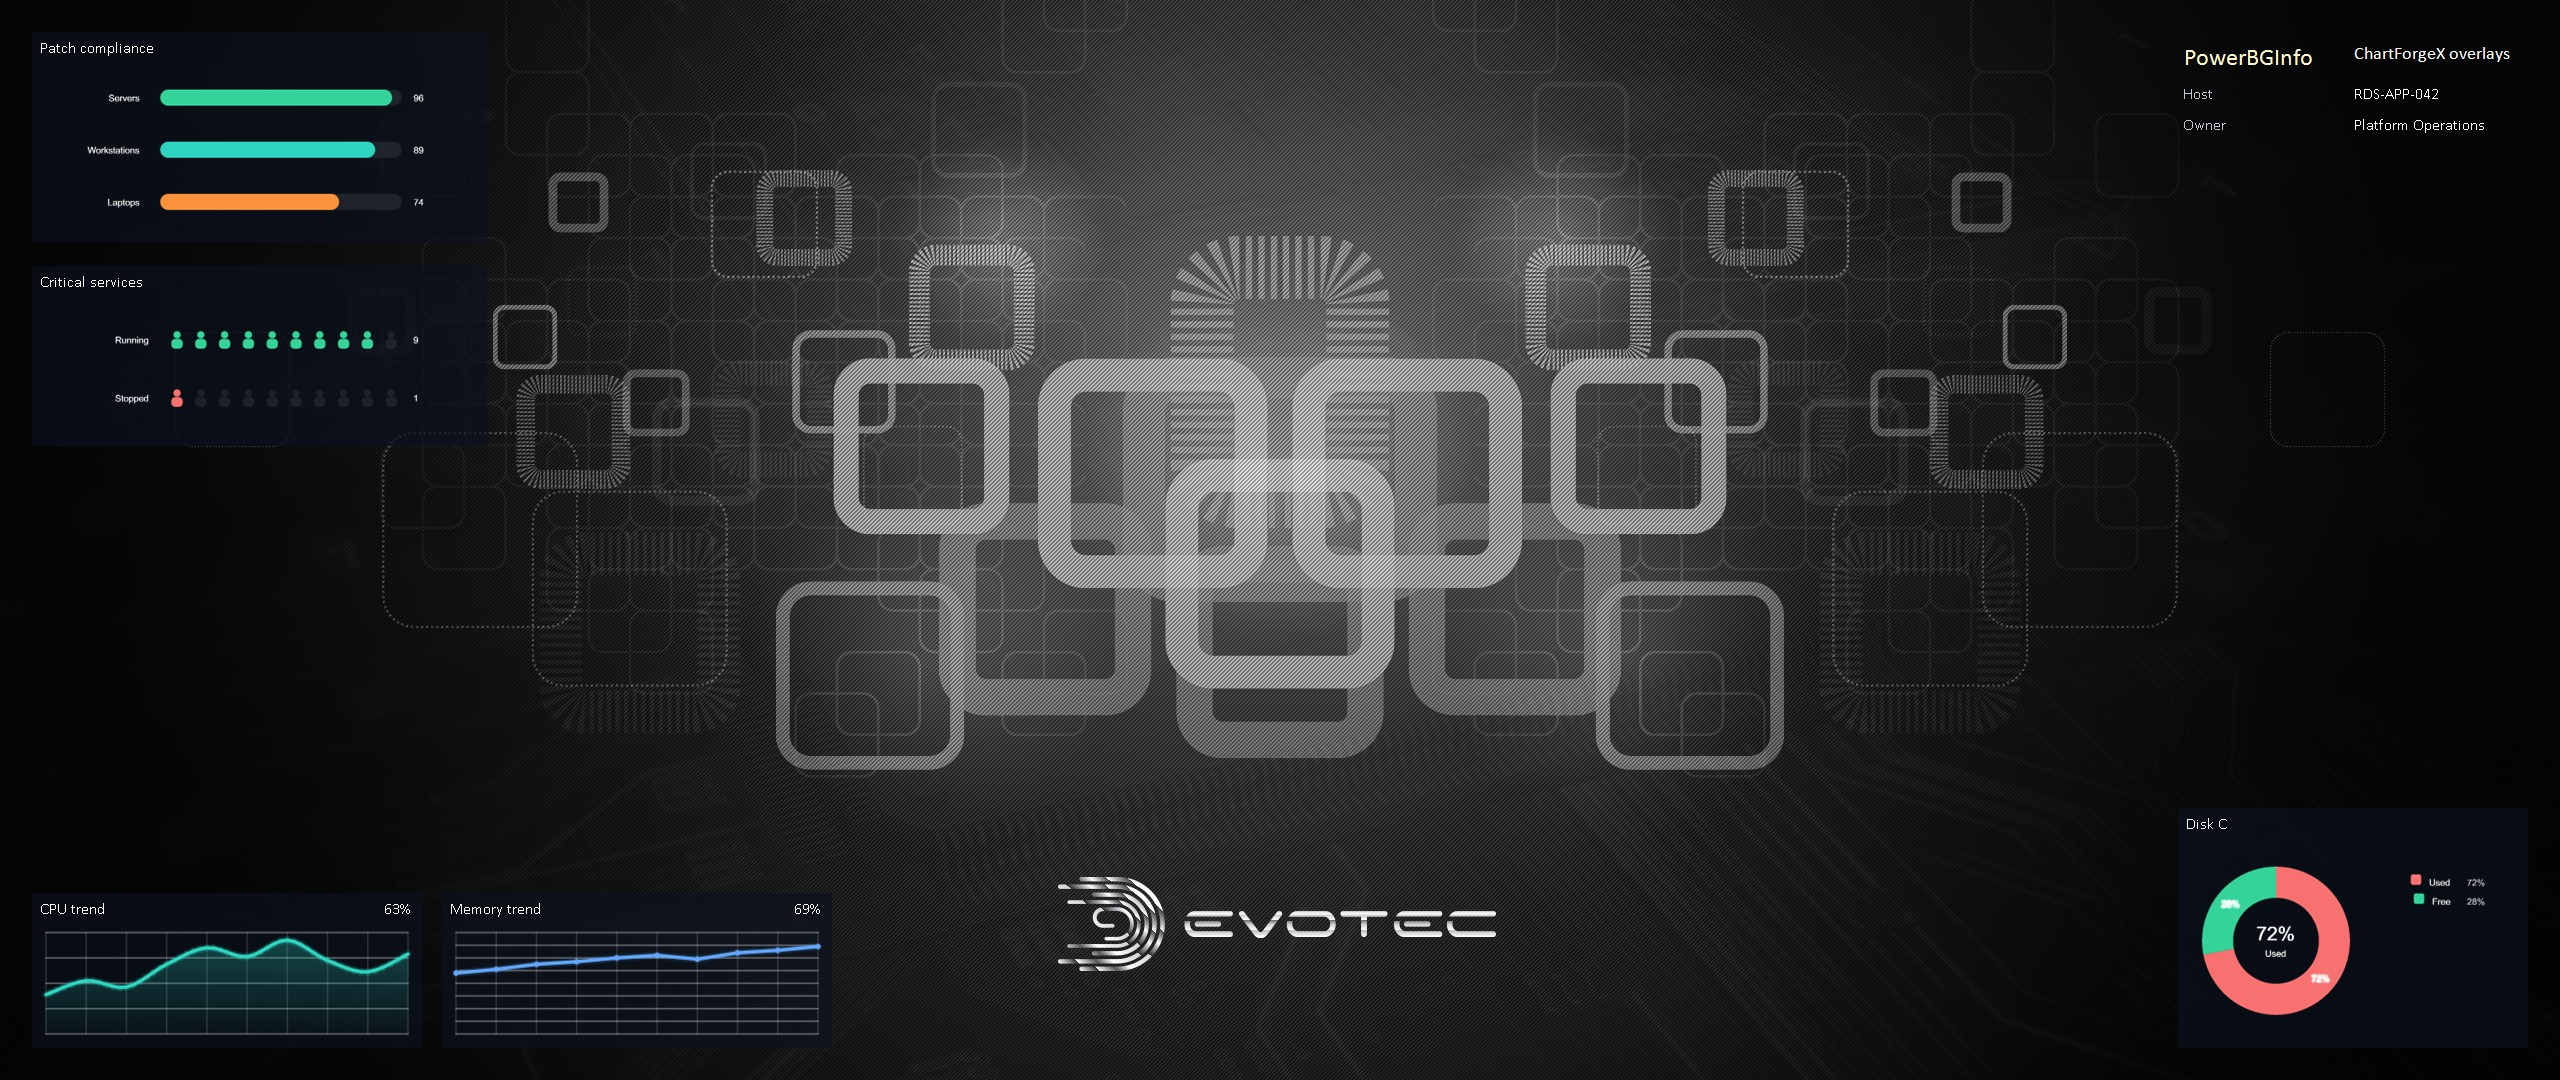
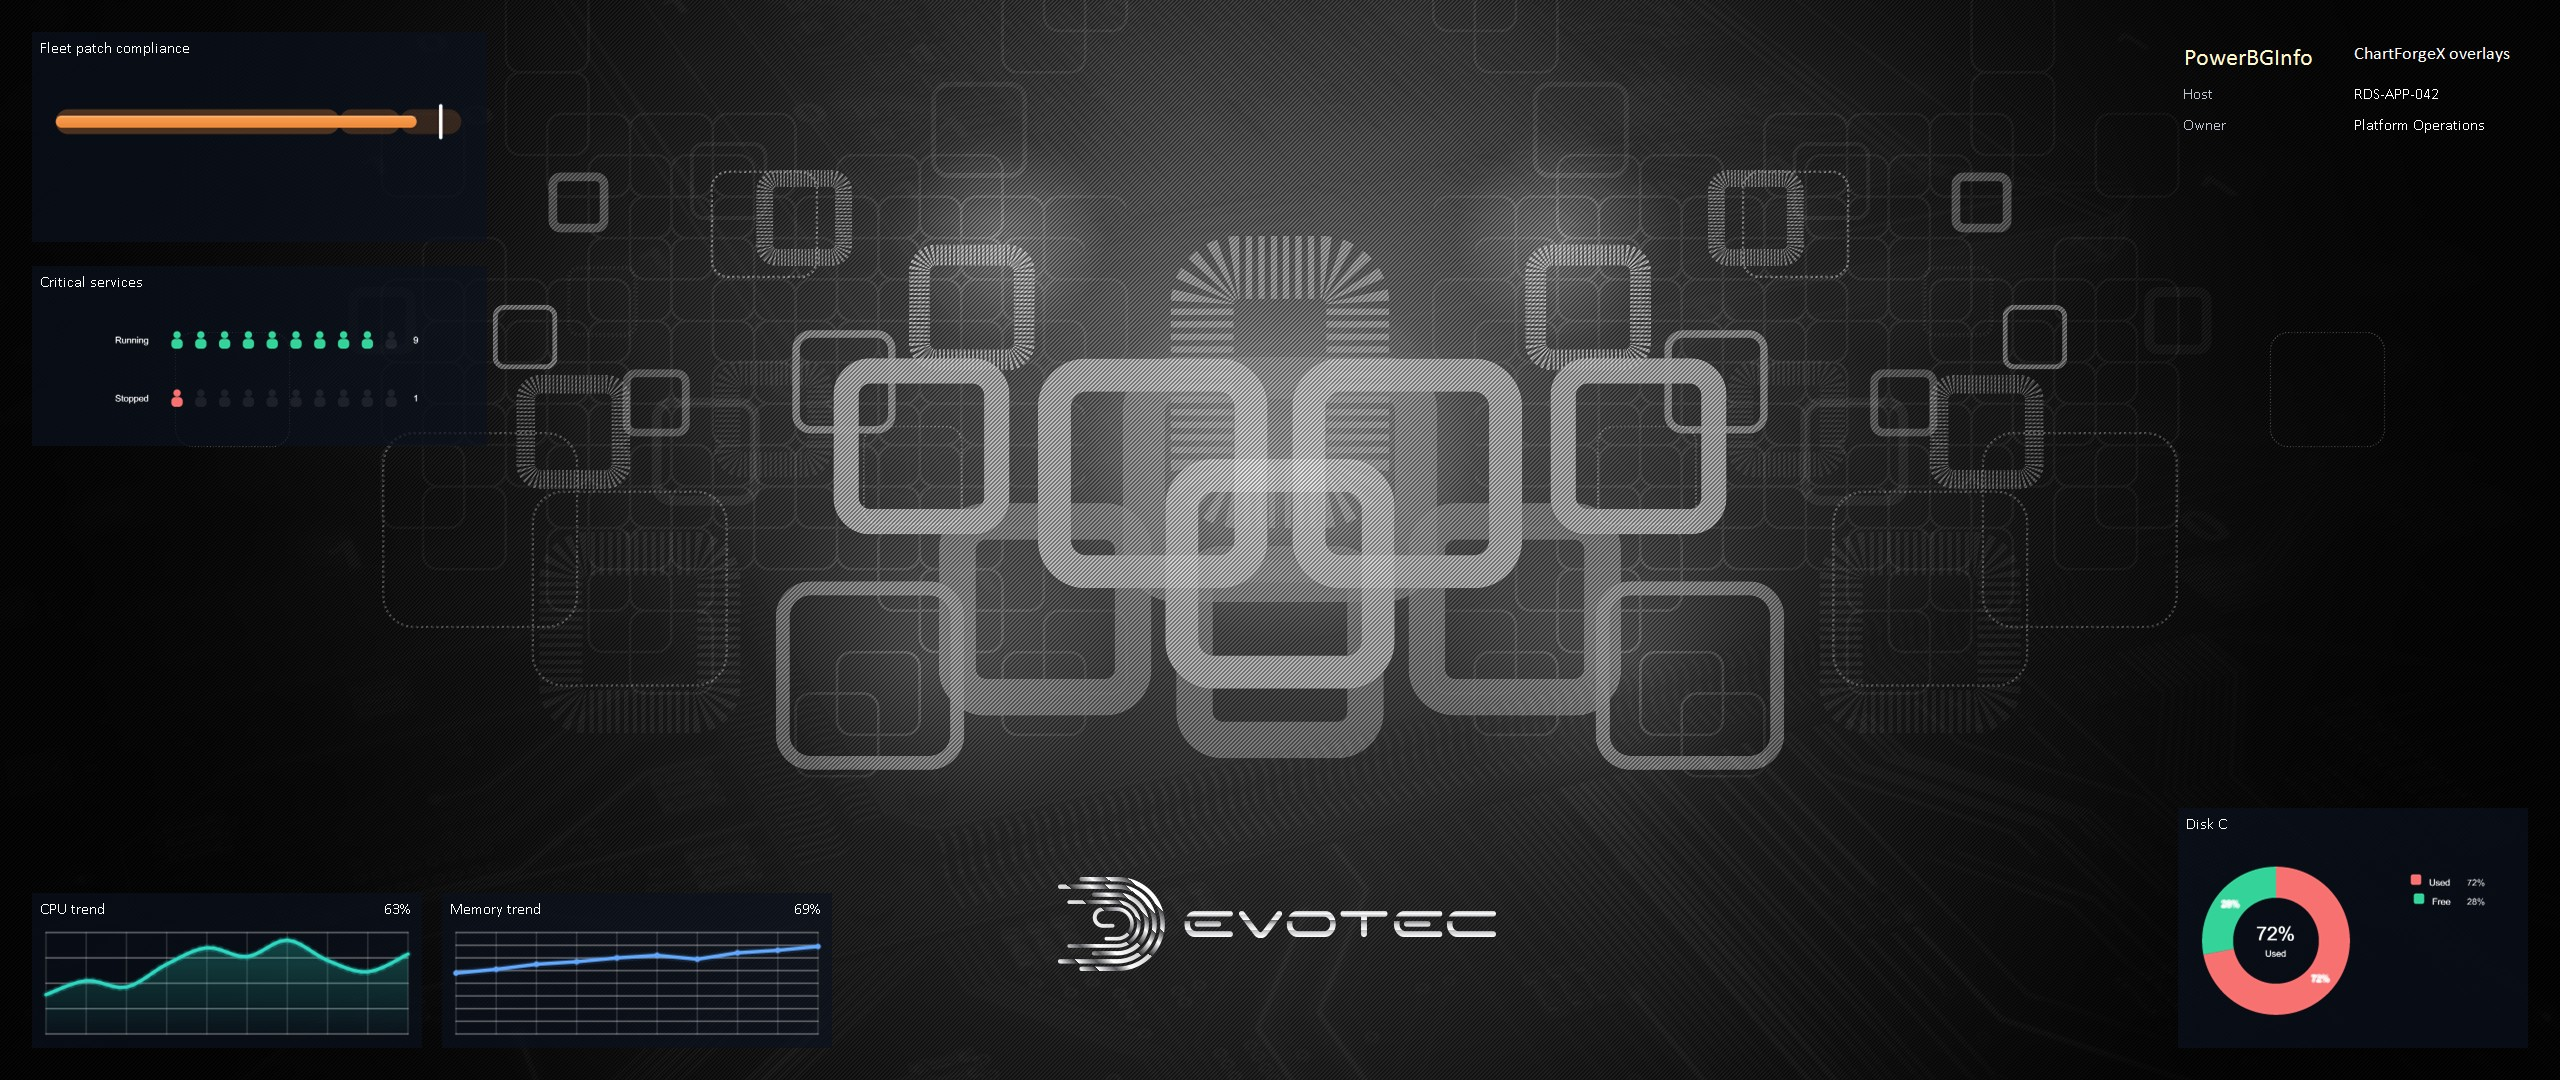
feat(charts): ✨ Add bullet chart overlays

Changed region(s): [[0.0, 0.0611, 0.1875, 0.2139]]

diff --git a/Sources/PowerBGInfo.PowerShell/CmdletNewBGInfoChart.cs b/Sources/PowerBGInfo.PowerShell/CmdletNewBGInfoChart.cs
@@ -16,7 +16,7 @@ public class CmdletNewBGInfoChart : PSCmdlet {
     [Parameter]
     public string Id { get; set; } = string.Empty;
 
-    /// <para>Chart kind to render, such as Sparkline, Line, Area, Bar, HorizontalBar, Gauge, Circle, RadialBar, Pie, Donut, ProgressBar, or Pictorial.</para>
+    /// <para>Chart kind to render, such as Sparkline, Line, Area, Bar, HorizontalBar, Gauge, Circle, RadialBar, Bullet, Pie, Donut, ProgressBar, or Pictorial.</para>
     [Parameter]
     public BgInfoChartKind Kind { get; set; } = BgInfoChartKind.Sparkline;
 
@@ -31,6 +31,14 @@ public class CmdletNewBGInfoChart : PSCmdlet {
     /// <para>Optional labels used by point-based charts.</para>
     [Parameter]
     public string[] Labels { get; set; } = Array.Empty<string>();
+
+    /// <para>Target value used by bullet charts.</para>
+    [Parameter]
+    public double Target { get; set; }
+
+    /// <para>Qualitative range ends used by bullet charts.</para>
+    [Parameter]
+    public double[] RangeEnds { get; set; } = Array.Empty<double>();
 
     /// <para>Built-in metric source used when no explicit values are provided.</para>
     [Parameter]
@@ -290,6 +298,12 @@ public class CmdletNewBGInfoChart : PSCmdlet {
         }
         if (MyInvocation.BoundParameters.ContainsKey(nameof(Maximum))) {
             chart.Maximum = Maximum;
+        }
+        if (MyInvocation.BoundParameters.ContainsKey(nameof(Target))) {
+            chart.Target = Target;
+        }
+        if (RangeEnds != null && RangeEnds.Length > 0) {
+            chart.RangeEnds = RangeEnds;
         }
         if (MyInvocation.BoundParameters.ContainsKey(nameof(DonutInnerRadiusRatio))) {
             chart.DonutInnerRadiusRatio = DonutInnerRadiusRatio;

diff --git a/Sources/PowerBGInfo/BgInfoConfigurationJson.cs b/Sources/PowerBGInfo/BgInfoConfigurationJson.cs
@@ -275,6 +275,8 @@ public static class BgInfoConfigurationJson {
                     PositionY = chart.PositionY,
                     Values = chart.Values is null ? null : new List<double>(chart.Values).ToArray(),
                     Labels = chart.Labels is null ? null : new List<string>(chart.Labels).ToArray(),
+                    Target = chart.Target,
+                    RangeEnds = chart.RangeEnds is null ? null : new List<double>(chart.RangeEnds).ToArray(),
                     MaxPoints = chart.MaxPoints,
                     UseHistory = chart.UseHistory,
                     AppendValues = chart.AppendValues,
@@ -412,6 +414,8 @@ public static class BgInfoConfigurationJson {
 
         if (model.Values != null) chart.Values = model.Values;
         if (model.Labels != null) chart.Labels = model.Labels;
+        if (model.Target.HasValue) chart.Target = model.Target.Value;
+        if (model.RangeEnds != null) chart.RangeEnds = model.RangeEnds;
         if (model.MaxPoints.HasValue) chart.MaxPoints = model.MaxPoints.Value;
         if (model.UseHistory.HasValue) chart.UseHistory = model.UseHistory.Value;
         if (model.AppendValues.HasValue) chart.AppendValues = model.AppendValues.Value;
@@ -571,6 +575,8 @@ public static class BgInfoConfigurationJson {
         public float? PositionY { get; set; }
         public double[]? Values { get; set; }
         public string[]? Labels { get; set; }
+        public double? Target { get; set; }
+        public double[]? RangeEnds { get; set; }
         public int? MaxPoints { get; set; }
         public bool? UseHistory { get; set; }
         public bool? AppendValues { get; set; }

diff --git a/Sources/PowerBGInfo/BgInfoChartRenderer.cs b/Sources/PowerBGInfo/BgInfoChartRenderer.cs
@@ -111,6 +111,9 @@ internal static class BgInfoChartRenderer {
             case BgInfoChartKind.RadialBar:
                 plot.AddRadialBar(chart.Title, BuildPercentPoints(values), accent);
                 break;
+            case BgInfoChartKind.Bullet:
+                AddBulletRows(plot, chart, values, accent);
+                break;
             case BgInfoChartKind.Pie:
                 plot.WithXLabels(BuildLabels(chart, values.Count)).AddPie(chart.Title, BuildIndexedPoints(values));
                 ApplyPointColors(plot, chart);
@@ -187,6 +190,18 @@ internal static class BgInfoChartRenderer {
     private static void AddCircle(Chart plot, BgInfoChart chart, IReadOnlyList<double> values, ChartColor accent) {
         var latest = values[values.Count - 1];
         plot.AddCircle(chart.Title, latest, chart.Minimum ?? 0, ResolveMaximum(chart, values, 100), accent);
+    }
+
+    private static void AddBulletRows(Chart plot, BgInfoChart chart, IReadOnlyList<double> values, ChartColor accent) {
+        var maximum = ResolveMaximum(chart, values, 100);
+        var minimum = chart.Minimum ?? 0;
+        var target = chart.Target ?? maximum;
+        var ranges = chart.RangeEnds.Count > 0 ? chart.RangeEnds : null;
+
+        for (var i = 0; i < values.Count; i++) {
+            plot.AddBullet(LabelAt(chart, i), values[i], target, minimum, maximum, ranges, ColorAt(chart, i) ?? accent);
+            plot.Series[plot.Series.Count - 1].WithDataLabels(chart.ShowDataLabels);
+        }
     }
 
     private static ChartPoint[] BuildIndexedPoints(IReadOnlyList<double> values) {

diff --git a/Sources/PowerBGInfo/BgInfoChart.cs b/Sources/PowerBGInfo/BgInfoChart.cs
@@ -21,6 +21,8 @@ public enum BgInfoChartKind {
     Circle,
     /// <summary>Renders values as radial progress rings.</summary>
     RadialBar,
+    /// <summary>Renders value, target, and qualitative ranges.</summary>
+    Bullet,
     /// <summary>Renders values as a pie chart.</summary>
     Pie,
     /// <summary>Renders values as a donut chart.</summary>
@@ -121,6 +123,10 @@ public sealed class BgInfoChart {
     public IReadOnlyList<double> Values { get; set; } = Array.Empty<double>();
     /// <summary>Optional labels used by point-based chart kinds.</summary>
     public IReadOnlyList<string> Labels { get; set; } = Array.Empty<string>();
+    /// <summary>Optional target value used by bullet charts.</summary>
+    public double? Target { get; set; }
+    /// <summary>Optional qualitative range ends used by bullet charts.</summary>
+    public IReadOnlyList<double> RangeEnds { get; set; } = Array.Empty<double>();
     /// <summary>Metric source used when no explicit values are provided.</summary>
     public BgInfoChartMetric Metric { get; set; } = BgInfoChartMetric.None;
     /// <summary>Optional argument for the metric source (for example drive letter).</summary>

diff --git a/Sources/PowerBGInfo.Tests/BgInfoConfigurationJsonTests.cs b/Sources/PowerBGInfo.Tests/BgInfoConfigurationJsonTests.cs
@@ -114,6 +114,8 @@ public class BgInfoConfigurationJsonTests
             ShowDataLabels = true,
             Minimum = 0,
             Maximum = 100,
+            Target = 95,
+            RangeEnds = new[] { 70d, 85d },
             DonutInnerRadiusRatio = 0.64,
             DonutCenterValue = "72%",
             DonutCenterLabel = "Used",
@@ -135,6 +137,8 @@ public class BgInfoConfigurationJsonTests
         Assert.True(chart.ShowDataLabels);
         Assert.Equal(0, chart.Minimum);
         Assert.Equal(100, chart.Maximum);
+        Assert.Equal(95, chart.Target);
+        Assert.Equal(new[] { 70d, 85d }, chart.RangeEnds);
         Assert.Equal(0.64, chart.DonutInnerRadiusRatio);
         Assert.Equal("72%", chart.DonutCenterValue);
         Assert.Equal("Used", chart.DonutCenterLabel);

diff --git a/README.MD b/README.MD
@@ -331,7 +331,7 @@ The example above is generated by `Examples/Run.BGInfo.ChartForgeX.ps1`. It comb
 
 - `Area` and `Line` charts for short performance trends.
 - `Donut` with point labels, legend, palette, and center text.
-- `ProgressBar` for compliance or rollout status.
+- `Bullet` for compliance against a target with qualitative ranges.
 - `Pictorial` for simple status counts.
 
 For a smaller operational layout, use stacked charts anchored to one corner:
@@ -342,7 +342,7 @@ If you want the chart ink to melt into the wallpaper, omit `-BackgroundColor` on
 
 ![PowerBGInfo transparent ChartForgeX overlay](Examples/Output/PowerBGInfo.ChartForgeX.Transparent.jpg)
 
-For an operational wallpaper, keep the chart set small and tied to data people actually need while looking at the desktop. `Examples\Scripts\PowerBGInfo.OperationalCharts.ps1` combines rolling CPU/memory metrics, system-drive capacity, uptime, and a small service-health pictorial:
+For an operational wallpaper, keep the chart set small and tied to data people actually need while looking at the desktop. `Examples\Scripts\PowerBGInfo.OperationalCharts.ps1` combines rolling CPU/memory metrics, system-drive capacity, patch target tracking, and a small service-health pictorial:
 
 ![PowerBGInfo operational ChartForgeX overlay](Examples/Output/PowerBGInfo.OperationalCharts.jpg)
 
@@ -363,9 +363,9 @@ New-BGInfo -MonitorIndex 0 {
 } -ConfigurationDirectory $PSScriptRoot\Output -BackgroundColor Black
 ```
 
-Charts are rendered by ChartForgeX into transparent overlays before PowerBGInfo composites them into the wallpaper. Supported kinds are `Sparkline`, `Line`, `Area`, `Bar`, `HorizontalBar`, `Gauge`, `Circle`, `RadialBar`, `Pie`, `Donut`, `ProgressBar`, and `Pictorial`.
+Charts are rendered by ChartForgeX into transparent overlays before PowerBGInfo composites them into the wallpaper. Supported kinds are `Sparkline`, `Line`, `Area`, `Bar`, `HorizontalBar`, `Gauge`, `Circle`, `RadialBar`, `Bullet`, `Pie`, `Donut`, `ProgressBar`, and `Pictorial`.
 
-Point-based charts can use `-Labels`, `-Palette`, `-ShowLegend`, `-ShowPointLegend`, `-LegendPosition`, and `-ShowDataLabels`. Gauge-like charts can use `-Minimum` and `-Maximum`; donut/progress/pictorial charts expose focused options such as `-DonutInnerRadiusRatio`, `-DonutCenterValue`, `-NoProgressHandles`, `-PictorialSymbol`, and `-PictorialColumns`.
+Point-based charts can use `-Labels`, `-Palette`, `-ShowLegend`, `-ShowPointLegend`, `-LegendPosition`, and `-ShowDataLabels`. Gauge-like charts can use `-Minimum` and `-Maximum`; bullet charts add `-Target` and `-RangeEnds`; donut/progress/pictorial charts expose focused options such as `-DonutInnerRadiusRatio`, `-DonutCenterValue`, `-NoProgressHandles`, `-PictorialSymbol`, and `-PictorialColumns`.
 
 PowerShell chart color parameters accept `System.Drawing.Color`, known color names, `#RRGGBB`, and `#AARRGGBB` strings, so examples can stay dependency-light and copy/paste friendly.
 
@@ -387,7 +387,8 @@ Use history for rolling metrics and use static values for status snapshots:
 | --- | --- | --- |
 | CPU or memory over time | `Sparkline`, `Line`, `Area` | Use `-Metric CpuPercent`, `-Metric MemoryPercent`, and keep history enabled. |
 | Disk used/free | `Donut`, `Pie`, `Bar` | Use explicit `-Values` and `-Labels` when you want a clean split. |
-| Compliance, deployment, backup status | `ProgressBar` | Use `-Maximum 100`, `-NoProgressHandles`, and `-ShowDataLabels`. |
+| Compliance against target | `Bullet` | Use `-Target`, `-RangeEnds`, and `-Maximum 100`. |
+| Deployment or backup status | `ProgressBar` | Use `-Maximum 100`, `-NoProgressHandles`, and `-ShowDataLabels`. |
 | Running/stopped counts | `Pictorial` | Use `-PictorialSymbol Person` or `Circle` with a small palette. |
 | One current KPI | `Gauge`, `Circle`, `RadialBar` | Use `-Minimum` and `-Maximum` for stable scaling. |
 
